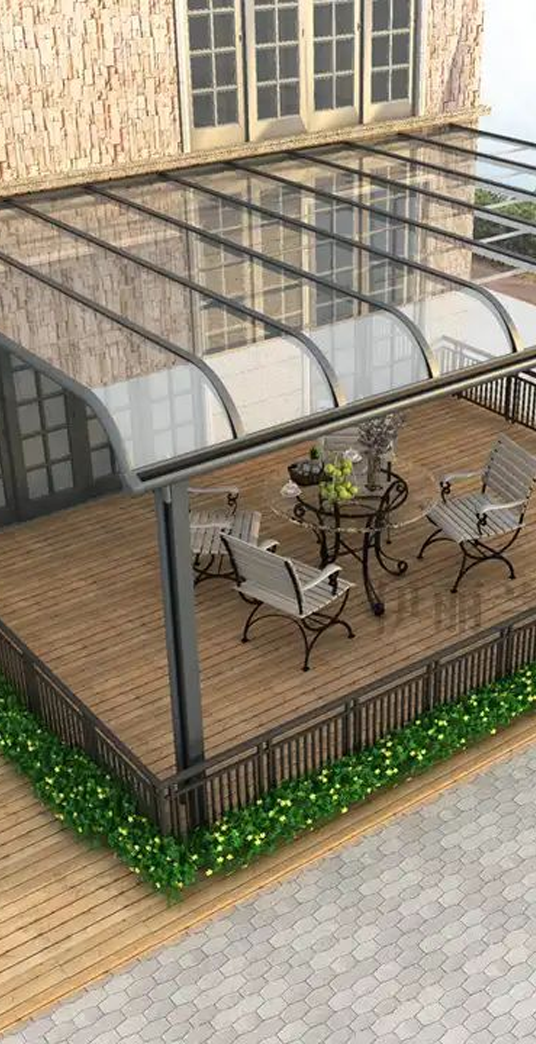
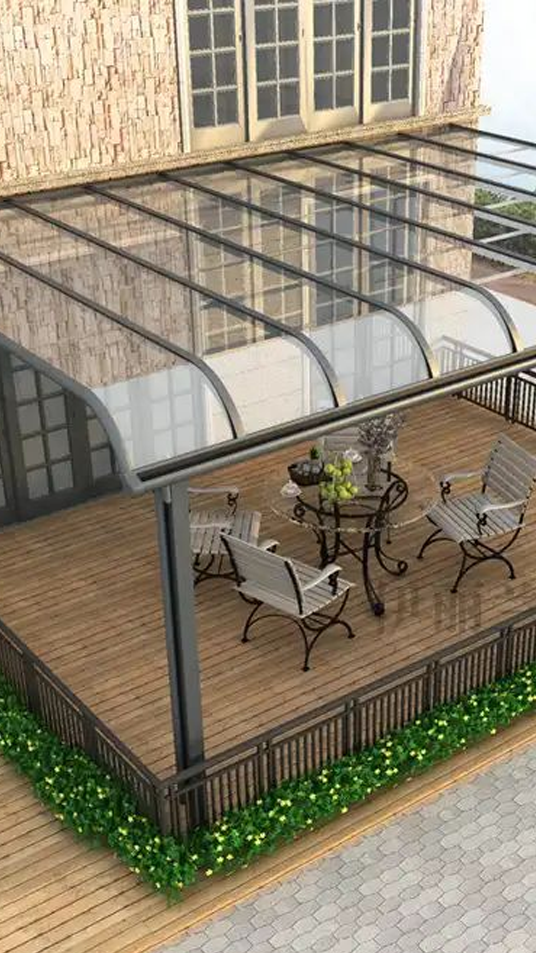
In The News Updated

diff --git a/src/components/InTheNews.jsx b/src/components/InTheNews.jsx
@@ -7,43 +7,33 @@ import "swiper/css";
 const newsData = [
     {
         id: 1,
-        number: "01",
         img: "/images/sectors/protective-solutions/news/1.png",
         title: "Lorem Ipsum 1",
         description: "Lorem ipsum dolor sit amet consectetur, adipisicing elit. Consequatur, temporibus exercitationem voluptate odio dolorem sit enim provident.",
-        link: "#",
     },
     {
         id: 2,
-        number: "02",
         img: "/images/sectors/protective-solutions/news/1.png",
         title: "Lorem Ipsum 2",
         description: "Lorem ipsum dolor sit amet consectetur, adipisicing elit. Consequatur, temporibus exercitationem voluptate odio dolorem sit enim provident.",
-        link: "#",
     },
     {
         id: 3,
-        number: "03",
         img: "/images/sectors/protective-solutions/news/1.png",
         title: "Lorem Ipsum 3",
         description: "Lorem ipsum dolor sit amet consectetur, adipisicing elit. Consequatur, temporibus exercitationem voluptate odio dolorem sit enim provident.",
-        link: "#",
     },
     {
         id: 4,
-        number: "04",
         img: "/images/sectors/protective-solutions/news/1.png",
         title: "Lorem Ipsum 4",
         description: "Lorem ipsum dolor sit amet consectetur, adipisicing elit. Consequatur, temporibus exercitationem voluptate odio dolorem sit enim provident.",
-        link: "#",
     },
     {
         id: 5,
-        number: "05",
         img: "/images/sectors/protective-solutions/news/1.png",
         title: "Lorem Ipsum 5",
         description: "Lorem ipsum dolor sit amet consectetur, adipisicing elit. Consequatur, temporibus exercitationem voluptate odio dolorem sit enim provident.",
-        link: "#",
     },
 ];
 
@@ -61,19 +51,25 @@ const InTheNews = () => {
     };
 
     return (
-        <section className="pt-[2rem] sm:pt-[2.2rem] lg:pt-[4rem] xl:pt-[4.5rem] 2xl:pt-[5rem] flex justify-between flex-wrap">
+        <section className="pt-[2rem] sm:pt-[2.2rem] lg:pt-[1rem] xl:pt-[1.5rem] 2xl:pt-[2rem] flex justify-between flex-wrap">
 
             {/* Left */}
             <div className="w-[60%]">
-                <div>
-                    01
+                <div className="
+                    bg-secondary text-[2.5rem] font-semibold w-[70px] flex justify-center items-center aspect-square
+                    mb-[2.5rem]
+                ">
+                    0{activeData.id}
                 </div>
                 <h6>
                     In The <br /> News
                 </h6>
+                <p className="mt-[0.7rem] lg:mt-[1rem] w-[50%]">
+                    Lorem ipsum dolor sit amet consectetur, adipisicing elit. Consequatur, temporibus exercitationem.
+                </p>
 
                 {/* Slider */}
-                <div>
+                <div className="mt-[-20rem]">
                     <Swiper
                         dir="rtl"
                         slidesPerView={2.6}
@@ -88,7 +84,7 @@ const InTheNews = () => {
                                 <SwiperSlide key={item.id}>
                                     <div
                                         dir="ltr"
-                                        className="overflow-hidden h-[80vh] flex items-end cursor-pointer"
+                                        className="overflow-hidden h-[85vh] flex items-end cursor-pointer"
                                         onClick={() => swiperRef.current?.slideToLoop(index)}
                                     >
                                         <img
@@ -96,7 +92,7 @@ const InTheNews = () => {
                                             alt={item.title}
                                             className={`
                                             w-full object-cover transition-all duration-500 ease-in-out 
-                                            ${isActive ? "h-[550px]" : "h-[280px]"}
+                                            ${isActive ? "aspect-[9/16]" : "aspect-[1/0.9]"}
                                         `}
                                         />
                                     </div>
@@ -108,8 +104,10 @@ const InTheNews = () => {
             </div>
 
             {/* Right */}
-            <div className="w-[35%]">
-                <span>
+            <div className="w-[35%] flex flex-col justify-end">
+                <span className="
+                    text-[2rem] font-semibold
+                ">
                     {activeData.title}
                 </span>
                 <p className="mt-[0.7rem] lg:mt-[1.2rem]">
@@ -118,10 +116,12 @@ const InTheNews = () => {
 
                 {/* Next Btn */}
                 <button className="
+                    mt-[4rem]
                     w-[35px] sm:w-[40px] lg:w-[40px] xl:w-[45px] 2xl:w-[50px]
                     h-[35px] sm:h-[40px] lg:h-[50px] xl:h-[55px] 2xl:h-[60px]
                     flex items-center justify-center bg-secondary hover:bg-primary hover:text-white transition 
                     text-[1.8rem] sm:text-[1.8rem] lg:text-[1.8rem] xl:text-[2rem] 2xl:text-[2.2rem]
+                    active:scale-[0.85]
                 " id="news-next" onClick={handleNext}>
                     ›
                 </button>